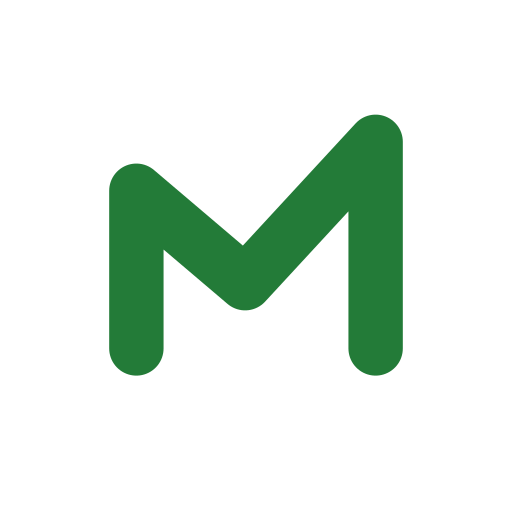
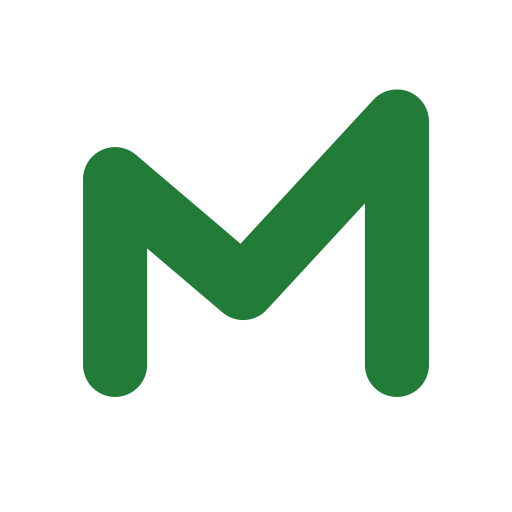
style(pwa): enlarge app mark and unify splash background

diff --git a/src/app/manifest.ts b/src/app/manifest.ts
@@ -3,7 +3,7 @@ export default function manifest():MetadataRoute.Manifest {
   return {
     id:"/",name:"Meta Aprovação",short_name:"Meta Aprovação",lang:"pt-BR",
     description:"Questões, simulados e organização dos estudos para ETEC e IF.",
-    start_url:"/login",scope:"/",display:"standalone",background_color:"#f5f4f1",theme_color:"#237b38",
+    start_url:"/login",scope:"/",display:"standalone",background_color:"#ffffff",theme_color:"#237b38",
     icons:[
       {src:"/pwa/icon-192.png",sizes:"192x192",type:"image/png",purpose:"any"},
       {src:"/pwa/icon-512.png",sizes:"512x512",type:"image/png",purpose:"any"},
